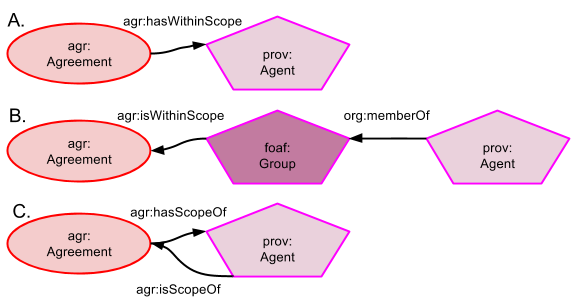
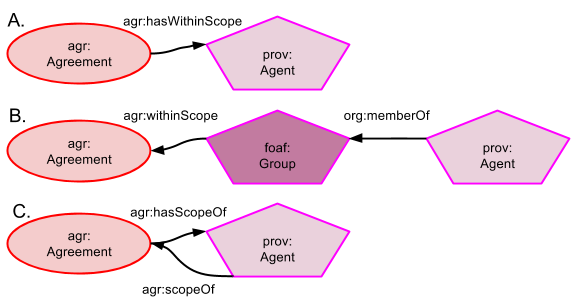
what Agreements make Agents do

Changed region(s): [[0.208, 0.3588, 0.3864, 0.4186], [0.2378, 0.9269, 0.3864, 0.9867]]

diff --git a/examples/indicating-agreement-data-relationships.md b/examples/indicating-agreement-data-relationships.md
@@ -11,7 +11,7 @@ This example uses a data publication scenario but data creation, destruction, re
 ### Via Agents
 ![Indicating Agreement data relationships 2](indicating-agreement-data-relationships-2.png)
 
-Another way to see how an agreement could have affected an data is to see who or what the data Entity is attributed. It is more likely that the Agent associated with a data creation or modification event is recorded than particulars of the event itself (viz. many data catalogues store a 'creator' or a 'custodian' for a dataset but few store creation or publication event details other than perhaps a date). Figure D shows a PROV-O relationship whereby a dataset (Entity) is attributed to an Agent (attribution could be specialised to be creation, publication, alteration etc.) and a [FOAF](http://xmlns.com/foaf/spec/) relationship to place that Agent within a Group. Figure E extends on those generic PROV-O and FOAF relationships with Agreements ontology relationships whereby an Agent - either a single individual (prov:Person/foaf:Person) or a group (foaf:Group, org:Organization etc.) - can be indicated as being affected by an Agreement via a *agr:hasScopeOf* property. In this way, the transitive relationship back from an Agreement to an Entity via an Agent, or Agent and any number of Agent group/organization memberships, indicates an affect.
+Another way to see how an agreement could have affected an data is to see who or what the data Entity is attributed. It is more likely that the Agent associated with a data creation or modification event is recorded than particulars of the event itself (viz. many data catalogues store a 'creator' or a 'custodian' for a dataset but few store creation or publication event details other than perhaps a date). Figure D shows a PROV-O relationship whereby a dataset (Entity) is attributed to an Agent (attribution could be specialised to be creation, publication, alteration etc.) and a [FOAF](http://xmlns.com/foaf/spec/) relationship to place that Agent within a Group. Tt shows two possible links between an Agent and an Agreement - either a single individual (prov:Person/foaf:Person) or a group (foaf:Group, org:Organization etc.) - can be indicated as being affected by an Agreement via a *agr:whithinScope* property. Agents that *prov:actedOnBehlafOf* other Agents may also be within socpe of certain Agreeemnts. Figure E gives a specific example of each class in Figure D with a group agent holding the link to the Agreement. In this way, the transitive relationship back from an Agreement to an Entity via an Agent, or Agent and any number of Agent group/organization memberships, indicates an affect.
 
 ### Direct influence
 As per PROV-O, anything may have *prov:influenced* anything else. The Agreements ontology specialises this with *agr:agreementFor* relationship between an Agreement and an Entity (data) with the inverse of *agr:hasAgreement*. This allows a direct relationship between an Agreement and an Entity to be expressed in a way similar to the commonly used [Dublin Core Terms](http://dublincore.org/documents/dcmi-terms/) relationship *dct:license* indicating a License (a specialised form of an Agreement) and data. In a specialised license scenario, the individual elements of the license which the [Creative Commons Rights Expression Language](http://labs.creativecommons.org/demos/ns/) calls 'Requirements', are indicated by Agreements ontology Requirements. 

diff --git a/examples/what-agreements-make-agents-do.md b/examples/what-agreements-make-agents-do.md
@@ -11,6 +11,7 @@ All of these relationships and restrictions are indicated in Figure A.
 ![What Agreements make Agents do 2](what-agreements-make-agents-do-2.png)  
 In order to indicate that a Requirement has been satisfied, an Agent must perform a RequirementResolution action. A RequirementResolution is subclass of both skos:Concept and of prov:Activity therefore it is a thing to be done, by some Agent.  In order to know which Requirement a RequirementResolution applies to, the RequirementResolution must have an *agr:satisfies* predicate indicating a particular Requirement class instance, the inverse of which is *agr:satisfiedBy*. Different Requirements many be satisfied by different RequirementResolutions (i.e. different Agents may undertake different actions to satisfy a particular Requirement). This is indcated in Figure B.
 
+Figure C in [Indicating Agreement / data relationships](examples/indicating-agreement-data-relationships.md) shows a Requirement to Publish Data being satisfied by a Data Publication Event Activity.
 
 #### Namespaces
 Prefix | URI

diff --git a/examples/agreements-and-their-relations.md b/examples/agreements-and-their-relations.md
@@ -1,0 +1,3 @@
+## Agreements and their relations
+![Agreements and their relations](agreements-and-their-relations.png)
+
